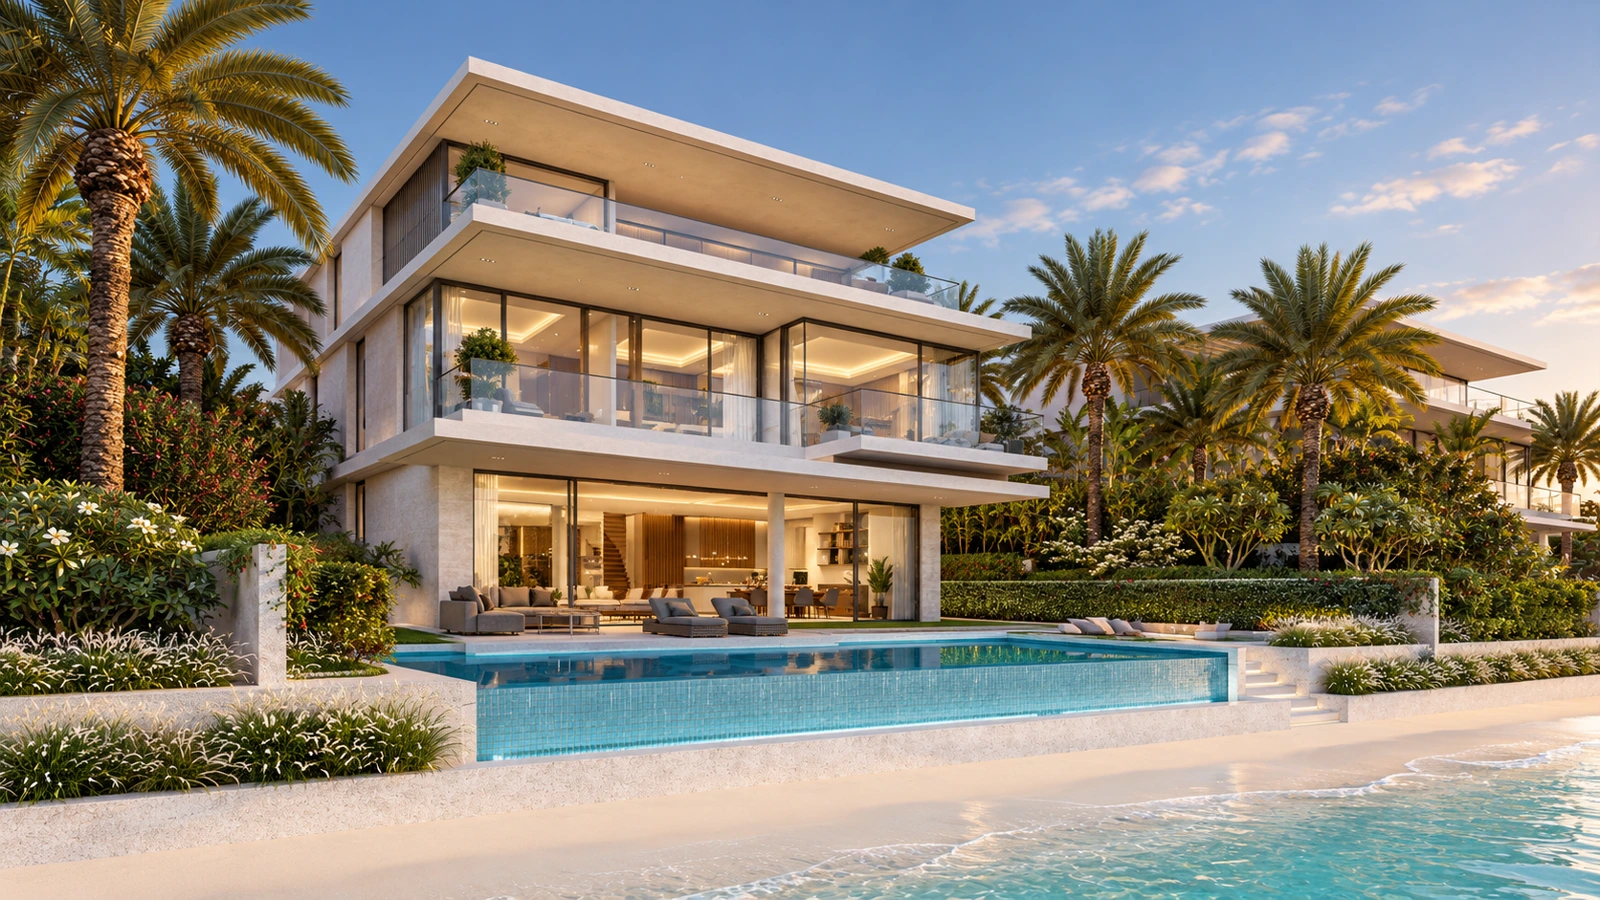
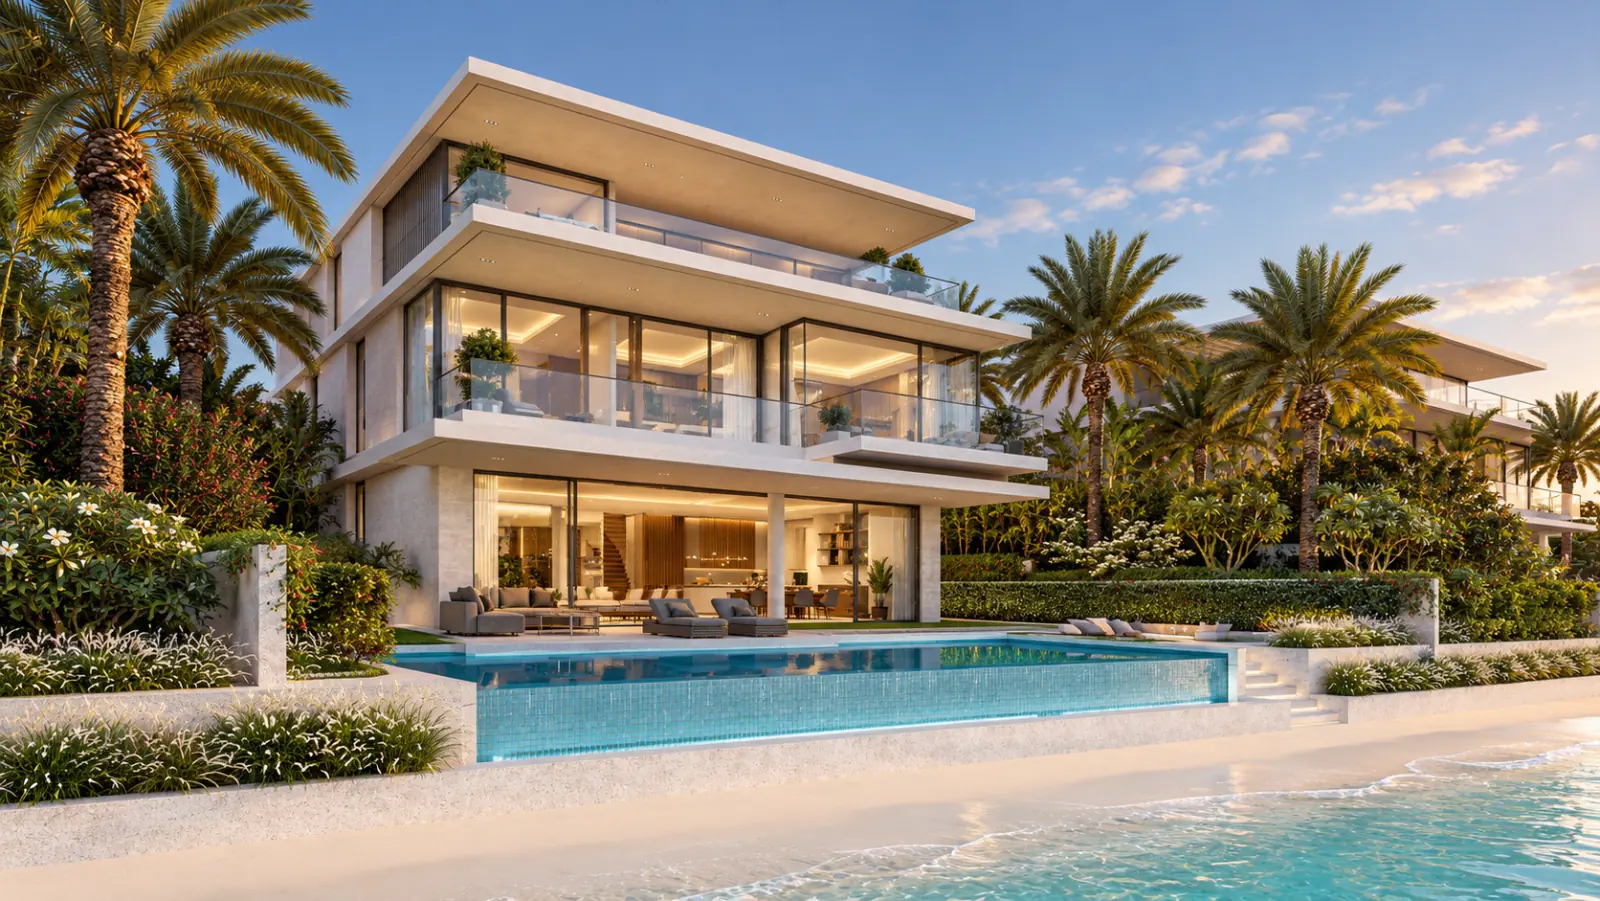
Re-encode gallery images and size them to their layout
Re-encode the gallery WebPs from the originals at q76 with 480/800/1200
widths, plus 1600 and 2560 only where a layout can use them, and stop
upscaling the two concept images. Give every image a sizes value that
matches its real rendered width. A full scroll now downloads about
1.2 MB of gallery images on a 3x phone instead of 3.7 MB, and 2.2 MB on
a 2x desktop instead of 7.4 MB.

diff --git a/index.html b/index.html
@@ -336,27 +336,27 @@ html,body{margin:0;background:#0c1414}body{font-family:'Instrument Sans Variable
 <section class="bj-intro bj-wrap" id="welcome">
  <div class="bj-meta" data-tag-anim=""><span>01 / The Beach Collection</span><span>Palm Jebel Ali · Dubai</span></div>
  <div class="bj-intro-grid"><h2 words-rotate-in="">A home shaped<br>by <em>light &amp; sea.</em></h2><div class="bj-intro-copy"><p data-text-anim="">Six bedrooms. Private beachfront living.<br>Frond E · Unit R084.</p></div></div>
- <figure class="bj-wide" data-img-curtain=""><img src="/assets/bluejay/beachfront-1600.webp" srcset="/assets/bluejay/beachfront-800.webp 800w, /assets/bluejay/beachfront-1600.webp 1600w, /assets/bluejay/beachfront-2560.webp 2560w" sizes="(max-width: 767px) 88vw, 90vw" alt="Bluejay beachfront elevation, with three levels, broad terraces and a pool facing the beach" loading="lazy" decoding="async"/><figcaption data-text-anim=""><span>Bluejay · Beach elevation</span><span>Original developer visualization</span></figcaption></figure>
+ <figure class="bj-wide" data-img-curtain=""><img src="/assets/bluejay/beachfront-800.webp" srcset="/assets/bluejay/beachfront-480.webp 480w, /assets/bluejay/beachfront-800.webp 800w, /assets/bluejay/beachfront-1200.webp 1200w, /assets/bluejay/beachfront-1600.webp 1600w, /assets/bluejay/beachfront-2560.webp 2560w" sizes="(max-width: 767px) 88vw, min(90vw, 1300px)" alt="Bluejay beachfront elevation, with three levels, broad terraces and a pool facing the beach" loading="lazy" decoding="async"/><figcaption data-text-anim=""><span>Bluejay · Beach elevation</span><span>Original developer visualization</span></figcaption></figure>
  <dl class="bj-stats"><div data-tag-anim=""><dt>Bedrooms</dt><dd>0<span data-num-anim="">6</span></dd></div><div data-tag-anim=""><dt>Built-up area</dt><dd><span data-num-anim="">7722</span> <small>sq ft</small></dd></div><div data-tag-anim=""><dt>Plot area</dt><dd><span data-num-anim="">7589</span> <small>sq ft</small></dd></div><div data-tag-anim=""><dt>Price</dt><dd>AED <span data-num-anim="">25</span>M</dd></div></dl>
 </section>
 <section class="bj-architecture bj-wrap" id="architecture"><span id="why-us"></span><span id="investment"></span>
  <div class="bj-meta" data-tag-anim=""><span>02 / Architecture</span><span>Natural materials. Open horizons.</span></div>
- <div class="bj-split"><div class="bj-story"><h2 data-title-anim="">Drawn to<br><em>the light.</em></h2><p data-text-anim="">A sunlit courtyard. Sea views framed in stone and timber.</p><p data-text-anim="150">Open to the outdoors. Room to retreat.</p></div><figure class="bj-portrait" data-img-curtain=""><img src="/assets/bluejay/entrance-1600.webp" srcset="/assets/bluejay/entrance-800.webp 800w, /assets/bluejay/entrance-1600.webp 1600w, /assets/bluejay/entrance-2560.webp 2560w" sizes="(max-width: 767px) 88vw, 90vw" alt="Bluejay entrance hall with timber-lined staircase and a view through to the sea" loading="lazy" decoding="async"/><figcaption data-text-anim="">Timber, stone and a ribbon of daylight.</figcaption></figure></div>
- <div class="bj-courtyard"><figure data-img-curtain=""><img src="/assets/bluejay/courtyard-1600.webp" srcset="/assets/bluejay/courtyard-800.webp 800w, /assets/bluejay/courtyard-1600.webp 1600w, /assets/bluejay/courtyard-2560.webp 2560w" sizes="(max-width: 767px) 88vw, 90vw" alt="Original Bluejay courtyard with a suspended daybed, lawn and glass living spaces" loading="lazy" decoding="async"/><figcaption data-text-anim="">The courtyard · Original developer visualization</figcaption></figure><div><span class="bj-label" data-tag-anim="">The heart of the home</span><h3 words-rotate-in="">Inside.<br>Outside.<br><em>In harmony.</em></h3><p data-text-anim="">Shaded terraces. A garden courtyard. Light in every room.</p></div></div>
+ <div class="bj-split"><div class="bj-story"><h2 data-title-anim="">Drawn to<br><em>the light.</em></h2><p data-text-anim="">A sunlit courtyard. Sea views framed in stone and timber.</p><p data-text-anim="150">Open to the outdoors. Room to retreat.</p></div><figure class="bj-portrait" data-img-curtain=""><img src="/assets/bluejay/entrance-800.webp" srcset="/assets/bluejay/entrance-480.webp 480w, /assets/bluejay/entrance-800.webp 800w, /assets/bluejay/entrance-1200.webp 1200w, /assets/bluejay/entrance-1600.webp 1600w" sizes="(max-width: 767px) 88vw, min(42vw, 600px)" alt="Bluejay entrance hall with timber-lined staircase and a view through to the sea" loading="lazy" decoding="async"/><figcaption data-text-anim="">Timber, stone and a ribbon of daylight.</figcaption></figure></div>
+ <div class="bj-courtyard"><figure data-img-curtain=""><img src="/assets/bluejay/courtyard-800.webp" srcset="/assets/bluejay/courtyard-480.webp 480w, /assets/bluejay/courtyard-800.webp 800w, /assets/bluejay/courtyard-1200.webp 1200w, /assets/bluejay/courtyard-1600.webp 1600w" sizes="(max-width: 767px) 88vw, min(51vw, 730px)" alt="Original Bluejay courtyard with a suspended daybed, lawn and glass living spaces" loading="lazy" decoding="async"/><figcaption data-text-anim="">The courtyard · Original developer visualization</figcaption></figure><div><span class="bj-label" data-tag-anim="">The heart of the home</span><h3 words-rotate-in="">Inside.<br>Outside.<br><em>In harmony.</em></h3><p data-text-anim="">Shaded terraces. A garden courtyard. Light in every room.</p></div></div>
 </section>
 <section class="bj-interiors" id="villas"><div class="bj-wrap">
  <div class="bj-meta" data-tag-anim=""><span>03 / Interior life</span><span>Warmth in every detail</span></div>
  <div class="bj-heading"><h2 data-title-anim="">A sanctuary for<br><em>every moment.</em></h2><p data-text-anim="">Natural textures. Soft light. Space to be together.</p></div>
- <figure class="bj-wide" data-img-curtain=""><img src="/assets/bluejay/living-1600.webp" srcset="/assets/bluejay/living-800.webp 800w, /assets/bluejay/living-1600.webp 1600w, /assets/bluejay/living-2560.webp 2560w" sizes="(max-width: 767px) 88vw, 90vw" alt="Bluejay open-plan dining, living and show kitchen facing the waterfront" loading="lazy" decoding="async"/><figcaption data-text-anim=""><span>Living, dining &amp; kitchen</span><span>Original developer visualization</span></figcaption></figure>
- <div class="bj-room-grid"><figure data-img-curtain=""><img src="/assets/bluejay/bedroom-1600.webp" srcset="/assets/bluejay/bedroom-800.webp 800w, /assets/bluejay/bedroom-1600.webp 1600w, /assets/bluejay/bedroom-2560.webp 2560w" sizes="(max-width: 767px) 88vw, 90vw" alt="Bluejay bedroom with full-height glazing overlooking the water" loading="lazy" decoding="async"/><figcaption><span data-tag-anim="">01 / The bedroom</span><strong data-title-anim="">Wake to the horizon.</strong></figcaption></figure><figure data-img-curtain=""><img src="/assets/bluejay/bathroom-1600.webp" srcset="/assets/bluejay/bathroom-800.webp 800w, /assets/bluejay/bathroom-1600.webp 1600w, /assets/bluejay/bathroom-2560.webp 2560w" sizes="(max-width: 767px) 88vw, 90vw" alt="Bluejay bathroom with warm stone finishes and a glazed shower" loading="lazy" decoding="async"/><figcaption><span data-tag-anim="">02 / The bathroom</span><strong data-title-anim="">A quieter ritual.</strong></figcaption></figure><figure data-img-curtain=""><img src="/assets/bluejay/lounge-1600.webp" srcset="/assets/bluejay/lounge-800.webp 800w, /assets/bluejay/lounge-1600.webp 1600w, /assets/bluejay/lounge-2560.webp 2560w" sizes="(max-width: 767px) 88vw, 90vw" alt="Bluejay multipurpose lounge with a billiard table and waterfront view" loading="lazy" decoding="async"/><figcaption><span data-tag-anim="">03 / The multipurpose room</span><strong data-title-anim="">Time, entirely yours.</strong></figcaption></figure></div>
+ <figure class="bj-wide" data-img-curtain=""><img src="/assets/bluejay/living-800.webp" srcset="/assets/bluejay/living-480.webp 480w, /assets/bluejay/living-800.webp 800w, /assets/bluejay/living-1200.webp 1200w, /assets/bluejay/living-1600.webp 1600w, /assets/bluejay/living-2560.webp 2560w" sizes="(max-width: 767px) 88vw, min(90vw, 1300px)" alt="Bluejay open-plan dining, living and show kitchen facing the waterfront" loading="lazy" decoding="async"/><figcaption data-text-anim=""><span>Living, dining &amp; kitchen</span><span>Original developer visualization</span></figcaption></figure>
+ <div class="bj-room-grid"><figure data-img-curtain=""><img src="/assets/bluejay/bedroom-800.webp" srcset="/assets/bluejay/bedroom-480.webp 480w, /assets/bluejay/bedroom-800.webp 800w, /assets/bluejay/bedroom-1200.webp 1200w" sizes="(max-width: 767px) 88vw, min(29vw, 420px)" alt="Bluejay bedroom with full-height glazing overlooking the water" loading="lazy" decoding="async"/><figcaption><span data-tag-anim="">01 / The bedroom</span><strong data-title-anim="">Wake to the horizon.</strong></figcaption></figure><figure data-img-curtain=""><img src="/assets/bluejay/bathroom-800.webp" srcset="/assets/bluejay/bathroom-480.webp 480w, /assets/bluejay/bathroom-800.webp 800w, /assets/bluejay/bathroom-1200.webp 1200w" sizes="(max-width: 767px) 88vw, min(29vw, 420px)" alt="Bluejay bathroom with warm stone finishes and a glazed shower" loading="lazy" decoding="async"/><figcaption><span data-tag-anim="">02 / The bathroom</span><strong data-title-anim="">A quieter ritual.</strong></figcaption></figure><figure data-img-curtain=""><img src="/assets/bluejay/lounge-800.webp" srcset="/assets/bluejay/lounge-480.webp 480w, /assets/bluejay/lounge-800.webp 800w, /assets/bluejay/lounge-1200.webp 1200w" sizes="(max-width: 767px) 88vw, min(29vw, 420px)" alt="Bluejay multipurpose lounge with a billiard table and waterfront view" loading="lazy" decoding="async"/><figcaption><span data-tag-anim="">03 / The multipurpose room</span><strong data-title-anim="">Time, entirely yours.</strong></figcaption></figure></div>
 </div></section>
-<section class="bj-coast" aria-label="Life at the waterfront"><img src="/assets/bluejay/terrace-1600.webp" srcset="/assets/bluejay/terrace-800.webp 800w, /assets/bluejay/terrace-1600.webp 1600w, /assets/bluejay/terrace-2560.webp 2560w" sizes="(max-width: 767px) 88vw, 90vw" alt="Bluejay shaded terrace looking across the pool toward the sea" loading="lazy" decoding="async"/><div class="bj-coast-copy"><span class="bj-label" data-tag-anim="">04 / At the water’s edge</span><h2 words-rotate-in="">Let the days<br><em>unfold slowly.</em></h2></div></section>
+<section class="bj-coast" aria-label="Life at the waterfront"><img src="/assets/bluejay/terrace-800.webp" srcset="/assets/bluejay/terrace-480.webp 480w, /assets/bluejay/terrace-800.webp 800w, /assets/bluejay/terrace-1200.webp 1200w, /assets/bluejay/terrace-1600.webp 1600w, /assets/bluejay/terrace-2560.webp 2560w" sizes="100vw" alt="Bluejay shaded terrace looking across the pool toward the sea" loading="lazy" decoding="async"/><div class="bj-coast-copy"><span class="bj-label" data-tag-anim="">04 / At the water’s edge</span><h2 words-rotate-in="">Let the days<br><em>unfold slowly.</em></h2></div></section>
 
 <section class="bj-perspectives bj-wrap">
  <div class="bj-meta" data-tag-anim=""><span>06 / New perspectives</span><span>Architectural studies</span></div>
  <div class="bj-heading"><h2 data-title-anim="">The same home.<br><em>A different perspective.</em></h2><p data-text-anim="">Bluejay, imagined from another angle.</p></div>
- <div class="bj-concept-grid"><figure data-img-curtain=""><img src="/assets/bluejay/concept-beach-1600.webp" srcset="/assets/bluejay/concept-beach-800.webp 800w, /assets/bluejay/concept-beach-1600.webp 1600w, /assets/bluejay/concept-beach-2560.webp 2560w" sizes="(max-width: 767px) 88vw, 90vw" alt="AI-generated alternate beachfront angle inspired by the original Bluejay villa" loading="lazy" decoding="async"/><figcaption data-text-anim="">Beachside, in the evening · AI concept visualization</figcaption></figure><figure data-img-curtain=""><img src="/assets/bluejay/concept-courtyard-1600.webp" srcset="/assets/bluejay/concept-courtyard-800.webp 800w, /assets/bluejay/concept-courtyard-1600.webp 1600w, /assets/bluejay/concept-courtyard-2560.webp 2560w" sizes="(max-width: 767px) 88vw, 90vw" alt="AI-generated alternate courtyard angle inspired by the original Bluejay design" loading="lazy" decoding="async"/><figcaption data-text-anim="">A garden retreat · AI concept visualization</figcaption></figure></div>
- <figure class="bj-street" data-img-curtain=""><img src="/assets/bluejay/street-1600.webp" srcset="/assets/bluejay/street-800.webp 800w, /assets/bluejay/street-1600.webp 1600w, /assets/bluejay/street-2560.webp 2560w" sizes="(max-width: 767px) 88vw, 90vw" alt="Original Bluejay street elevation with limestone walls, dark garage and palm planting" loading="lazy" decoding="async"/><figcaption data-text-anim="">A considered arrival · Original developer visualization</figcaption></figure>
+ <div class="bj-concept-grid"><figure data-img-curtain=""><img src="/assets/bluejay/concept-beach-800.webp" srcset="/assets/bluejay/concept-beach-480.webp 480w, /assets/bluejay/concept-beach-800.webp 800w, /assets/bluejay/concept-beach-1200.webp 1200w, /assets/bluejay/concept-beach-1600.webp 1600w" sizes="(max-width: 767px) 88vw, min(52vw, 750px)" alt="AI-generated alternate beachfront angle inspired by the original Bluejay villa" loading="lazy" decoding="async"/><figcaption data-text-anim="">Beachside, in the evening · AI concept visualization</figcaption></figure><figure data-img-curtain=""><img src="/assets/bluejay/concept-courtyard-800.webp" srcset="/assets/bluejay/concept-courtyard-480.webp 480w, /assets/bluejay/concept-courtyard-800.webp 800w, /assets/bluejay/concept-courtyard-1122.webp 1122w" sizes="(max-width: 767px) 75vw, min(35vw, 500px)" alt="AI-generated alternate courtyard angle inspired by the original Bluejay design" loading="lazy" decoding="async"/><figcaption data-text-anim="">A garden retreat · AI concept visualization</figcaption></figure></div>
+ <figure class="bj-street" data-img-curtain=""><img src="/assets/bluejay/street-800.webp" srcset="/assets/bluejay/street-480.webp 480w, /assets/bluejay/street-800.webp 800w, /assets/bluejay/street-1200.webp 1200w, /assets/bluejay/street-1600.webp 1600w" sizes="(max-width: 767px) 88vw, min(63vw, 910px)" alt="Original Bluejay street elevation with limestone walls, dark garage and palm planting" loading="lazy" decoding="async"/><figcaption data-text-anim="">A considered arrival · Original developer visualization</figcaption></figure>
 </section>
 
 <section class="bj-floorplans bj-wrap" id="floor-plans" aria-labelledby="floor-plans-title">
@@ -368,9 +368,9 @@ html,body{margin:0;background:#0c1414}body{font-family:'Instrument Sans Variable
    <p class="bj-fp-note">6 bedrooms, family room, roof lounge and terrace</p>
   </div>
   <div class="bj-fp-panels">
-  <div class="bj-fp-panel" role="tabpanel" id="fp-panel-ground" aria-labelledby="fp-tab-ground"><button type="button" class="bj-fp-card" data-full="/assets/floorplans/ground-floor.webp"><img src="/assets/floorplans/ground-floor-800.webp" srcset="/assets/floorplans/ground-floor-800.webp 800w, /assets/floorplans/ground-floor.webp 1380w" sizes="(max-width: 767px) 88vw, 46vw" width="1380" height="2700" alt="Ground Floor plan of Villa Bluejay" loading="lazy" decoding="async"/><span class="bj-fp-hint">View full screen ⤢</span></button></div>
-  <div class="bj-fp-panel" role="tabpanel" id="fp-panel-first" aria-labelledby="fp-tab-first" hidden><button type="button" class="bj-fp-card" data-full="/assets/floorplans/first-floor.webp"><img src="/assets/floorplans/first-floor-800.webp" srcset="/assets/floorplans/first-floor-800.webp 800w, /assets/floorplans/first-floor.webp 1160w" sizes="(max-width: 767px) 88vw, 46vw" width="1160" height="2100" alt="First Floor plan of Villa Bluejay" loading="lazy" decoding="async"/><span class="bj-fp-hint">View full screen ⤢</span></button></div>
-  <div class="bj-fp-panel" role="tabpanel" id="fp-panel-second" aria-labelledby="fp-tab-second" hidden><button type="button" class="bj-fp-card" data-full="/assets/floorplans/second-floor.webp"><img src="/assets/floorplans/second-floor-800.webp" srcset="/assets/floorplans/second-floor-800.webp 800w, /assets/floorplans/second-floor.webp 1000w" sizes="(max-width: 767px) 88vw, 46vw" width="1000" height="1740" alt="Second Floor plan of Villa Bluejay" loading="lazy" decoding="async"/><span class="bj-fp-hint">View full screen ⤢</span></button></div>
+  <div class="bj-fp-panel" role="tabpanel" id="fp-panel-ground" aria-labelledby="fp-tab-ground"><button type="button" class="bj-fp-card" data-full="/assets/floorplans/ground-floor.webp"><img src="/assets/floorplans/ground-floor-800.webp" srcset="/assets/floorplans/ground-floor-800.webp 800w, /assets/floorplans/ground-floor.webp 1380w" sizes="(max-width: 767px) 80vw, min(41vw, 590px)" width="1380" height="2700" alt="Ground Floor plan of Villa Bluejay" loading="lazy" decoding="async"/><span class="bj-fp-hint">View full screen ⤢</span></button></div>
+  <div class="bj-fp-panel" role="tabpanel" id="fp-panel-first" aria-labelledby="fp-tab-first" hidden><button type="button" class="bj-fp-card" data-full="/assets/floorplans/first-floor.webp"><img src="/assets/floorplans/first-floor-800.webp" srcset="/assets/floorplans/first-floor-800.webp 800w, /assets/floorplans/first-floor.webp 1160w" sizes="(max-width: 767px) 80vw, min(41vw, 590px)" width="1160" height="2100" alt="First Floor plan of Villa Bluejay" loading="lazy" decoding="async"/><span class="bj-fp-hint">View full screen ⤢</span></button></div>
+  <div class="bj-fp-panel" role="tabpanel" id="fp-panel-second" aria-labelledby="fp-tab-second" hidden><button type="button" class="bj-fp-card" data-full="/assets/floorplans/second-floor.webp"><img src="/assets/floorplans/second-floor-800.webp" srcset="/assets/floorplans/second-floor-800.webp 800w, /assets/floorplans/second-floor.webp 1000w" sizes="(max-width: 767px) 80vw, min(41vw, 590px)" width="1000" height="1740" alt="Second Floor plan of Villa Bluejay" loading="lazy" decoding="async"/><span class="bj-fp-hint">View full screen ⤢</span></button></div>
   </div>
  </div>
  <dialog class="bj-fp-viewer" aria-label="Floor plan, full screen"><button type="button" class="bj-fp-close" aria-label="Close full screen view">×</button><div class="bj-fp-scroll"><img alt="" decoding="async"/></div></dialog>
